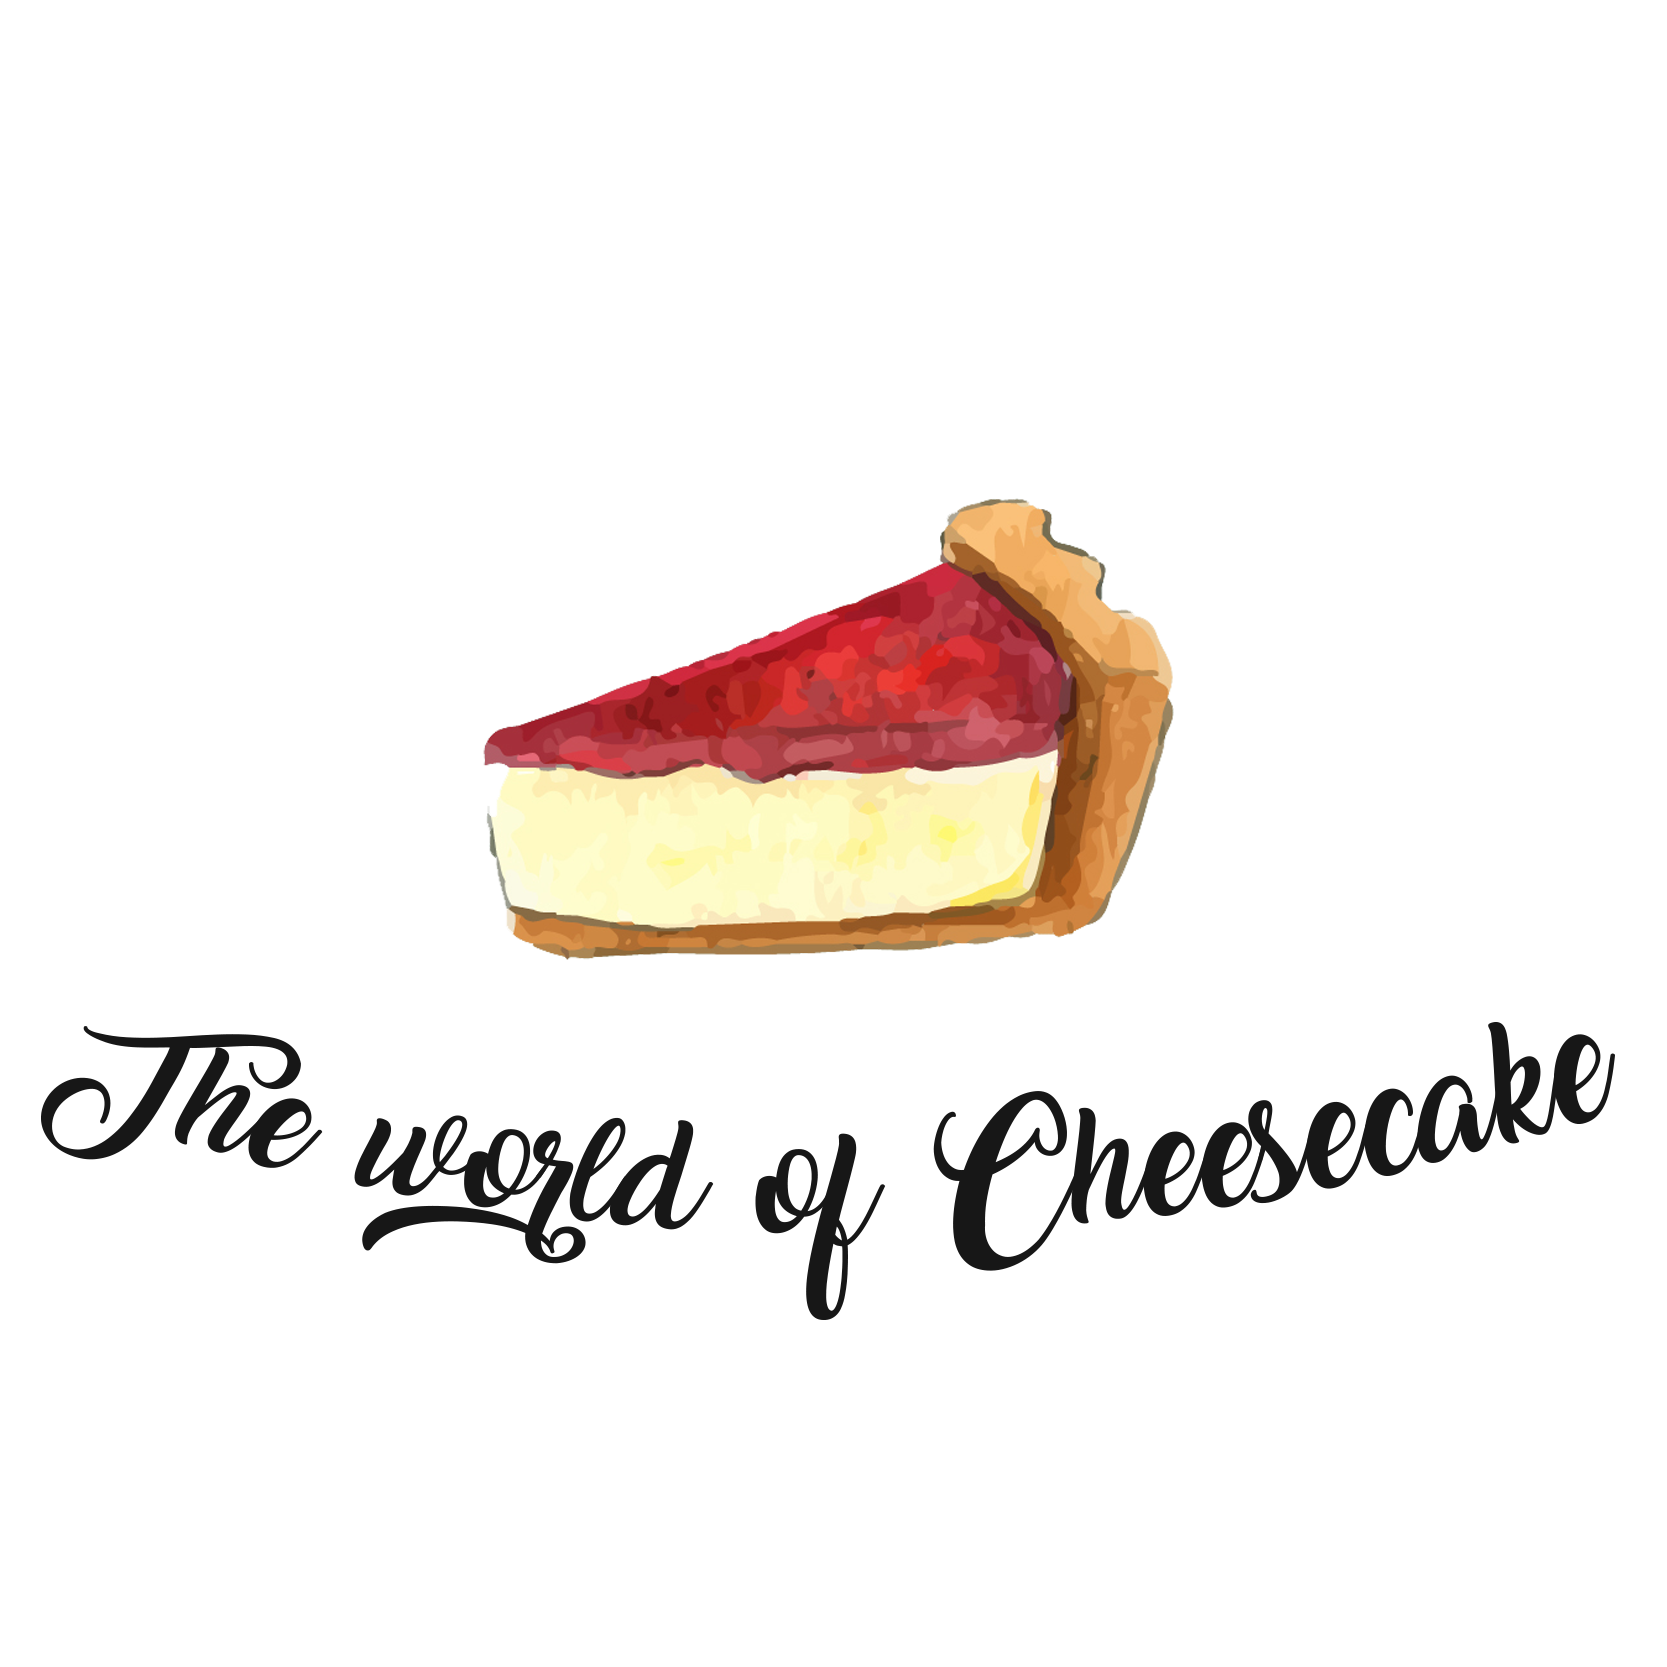
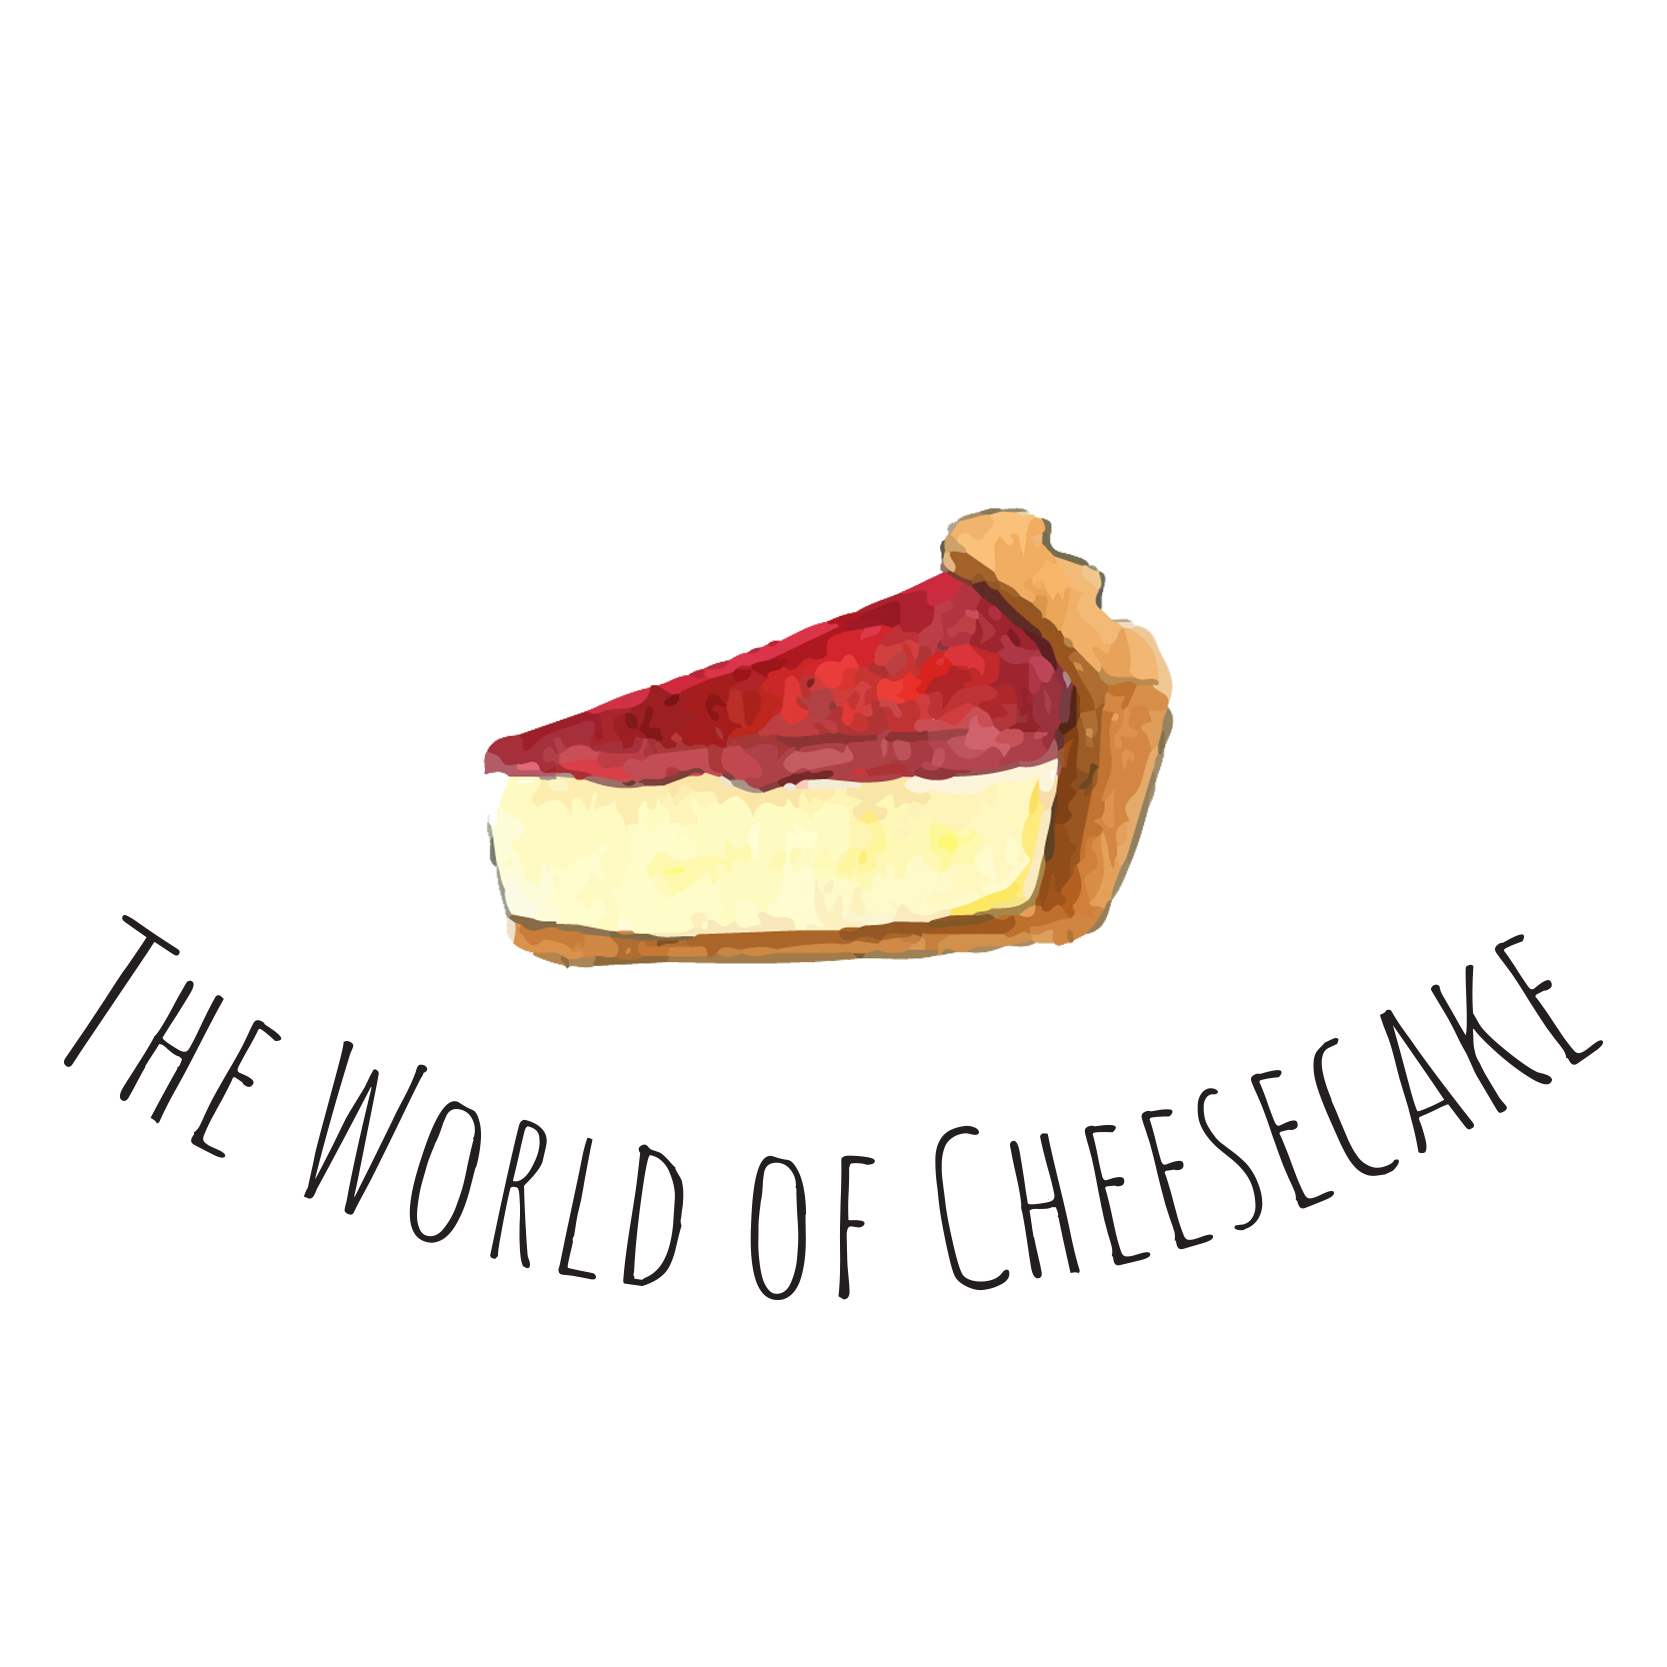
SEMANA 10
SEMANA 10

diff --git a/tarea/css/style.css b/tarea/css/style.css
@@ -1,5 +1,6 @@
 body{ 
   background-color:#f0f8ff;
+
 }
 
 header img{
@@ -12,13 +13,18 @@ header img{
  
 }
 
+ul {
+  list-style-type: none;
+
+}
+
 .row {
   display: flex;
 }
 
  p {
-  font-family:'Nanum Myeongjo', serif;
-  font-size: 1.95em;
+  font-family: 'Coming Soon', cursive;
+  font-size: 1.5em;
   flex: 1;
   border:1% solid none;
   text-align: justify;
@@ -27,6 +33,8 @@ header img{
   margin-right: 10%;
   margin-left: 20%;
   margin-top: 1%;
+
+  
 }
 
 .row div img {
@@ -43,8 +51,8 @@ h1{
 }
 
 h2{
-  font-family: 'amarillo', serif;
-  font-size: 2em;
+  font-family: 'Amatic SC', cursive;
+  font-size: 3em;
   text-align: center;
   margin-top: 8%;
   margin-left: 10%;
@@ -62,18 +70,10 @@ h2{
 }
 
 
-p{
-  font-family:'Nanum Myeongjo', serif;
-  font-size: 1.2em;
-  text-align: justify;
-  margin-top: 5%;
-
-}
-
 h3{
   text-align: center;
   margin-left: 10%;
-  font-family:'Nanum Myeongjo', sans-serif;
+  font-family: 'Coming Soon', cursive;
 }
 
 
@@ -83,7 +83,7 @@ a{
 }
 
 .topnav {
-  font-family: 'amarillo', serif;
+   font-family: 'Amatic SC', cursive;
     background-color: #939696;
     overflow: hidden;
     margin-left:1%;
@@ -95,13 +95,13 @@ a{
 }
 
 .topnav a {
-  font-family: 'amarillo', serif;
+   font-family: 'Amatic SC', cursive;
     float: left;
     color: #f2f2f2;
     text-align: center;
     padding: 2% 1%;
     text-decoration: none;
-    font-size: 1em;
+    font-size: 2.5em;
     margin-right: 16%;
 
 
@@ -133,7 +133,7 @@ input[type=text], select, textarea {
 }
 
 input[type=submit] {
-    background-color: #f2f2f2;;
+    background-color: #6495ed;
     color: white;
     padding: 12px 20px;
     border: none;
@@ -146,7 +146,7 @@ input[type=submit]:hover {
 
 /* Style the container/contact section */
 .container {
-  font-family:'Nanum Myeongjo', sans-serif;
+  font-family: 'Coming Soon', cursive;
     border-radius: 5px;
     background-color: #f0f8ff;
     padding: 10px;
@@ -174,4 +174,10 @@ input[type=submit]:hover {
         width: 100%;
         margin-top: 0;
     }
+}
+
+iframe{
+  margin-top: -90%;
+  margin-left: 5%;
+  margin-bottom: 5%;
 }

diff --git a/tarea/contact.html b/tarea/contact.html
@@ -1,9 +1,7 @@
 <!DOCTYPE html>
 <html lang="en">
 <head>
-  <style>
-@import url('https://fonts.googleapis.com/css?family=Nanum+Myeongjo|Playfair+Display');
-</style>
+ <link href="https://fonts.googleapis.com/css?family=Amatic+SC|Coming+Soon" rel="stylesheet">
 	<meta charset="utf-8" content="width=device-width, initial-scale=1">
 	<link rel="stylesheet" href="css/reset.css" type="text/css">
      <link rel="stylesheet" type="text/css" href="css/style.css">
@@ -14,10 +12,15 @@
 	<h1><img src="images/cake.png"></h1>
 </header>
 		<div class="topnav">
-  <a class="active" href="index.html">Home</a>
-  <a href="about.html">About</a>
-  <a href="recipes.html">Recipes</a>
-  <a href="contact.html">Contact</a>
+
+    <nav>
+        <ul>
+  <li><a class="active" href="index.html">Home</a></li>
+  <li><a href="about.html">About</a></li>
+  <li><a href="recipes.html">Recipes</a></li>
+  <li><a href="contact.html">Contact</a></li>
+</ul>
+</nav>
 </div>
 </header>
 
@@ -52,18 +55,7 @@
   </div>
 </div>
 
-<script>
-function myMap() {
-  var myCenter = new google.maps.LatLng(51.508742,-0.120850);
-  var mapCanvas = document.getElementById("map");
-  var mapOptions = {center: myCenter, zoom: 12};
-  var map = new google.maps.Map(mapCanvas, mapOptions);
-  var marker = new google.maps.Marker({position:myCenter});
-  marker.setMap(map);
-}
-</script>
-
-<script src="https://maps.googleapis.com/maps/api/js?key=AIzaSyBu-916DdpKAjTmJNIgngS6HL_kDIKU0aU&callback=myMap"></script>
+<iframe src="https://www.google.com/maps/embed?pb=!1m18!1m12!1m3!1d3761.9796415573255!2d-70.69856288493587!3d19.456444544959048!2m3!1f0!2f0!3f0!3m2!1i1024!2i768!4f13.1!3m3!1m2!1s0x8eb1cf5f7be8b03f%3A0xbe3e3516d23177c9!2sDella+Nonna+Coffee+%26+Pastry!5e0!3m2!1sen!2sdo!4v1524941567151" width="600" height="450" frameborder="0" style="border:0" allowfullscreen></iframe>
 <div class="img">
   <img src="images/ins.png"> 
   <img src="images/facebook.png"> 

diff --git a/tarea/index.html b/tarea/index.html
@@ -1,22 +1,24 @@
 <!DOCTYPE html>
 <html lang="en">
 <head>
-	<style>
-@import url('https://fonts.googleapis.com/css?family=Nanum+Myeongjo|Playfair+Display''https://www.dafont.com/es/amarillo.font');
-</style>
 	<meta charset="utf-8" content="width=device-width, initial-scale=1">
 	<link rel="stylesheet" href="css/reset.css" type="text/css">
      <link rel="stylesheet" type="text/css" href="css/style.css">
+     <link href="https://fonts.googleapis.com/css?family=Amatic+SC|Coming+Soon" rel="stylesheet">
 	<title>The world of Cheesecake</title>
 </head>
 <body>
 	<header>
 		<h1><img src="images/cake.png"></h1>
 		<div class="topnav">
-  <a class="active" href="index.html">Home</a>
-  <a href="about.html">About</a>
-  <a href="recipes.html">Recipes</a>
-  <a href="contact.html">Contact</a>
+			<nav>
+				<ul>
+  <li><a class="active" href="index.html">Home</a></li>
+  <li><a href="about.html">About</a></li>
+  <li><a href="recipes.html">Recipes</a></li>
+  <li><a href="contact.html">Contact</a></li>
+</ul>
+</nav>
 </div>
 </header>
 <div style="padding-right:500%">

diff --git a/tarea/about.html b/tarea/about.html
@@ -1,9 +1,7 @@
 <!DOCTYPE html>
 <html lang="en">
 <head>
-	<style>
-@import url('https://fonts.googleapis.com/css?family=Nanum+Myeongjo|Playfair+Display');
-</style>
+	<link href="https://fonts.googleapis.com/css?family=Amatic+SC|Coming+Soon" rel="stylesheet">
 	<meta charset="utf-8" content="width=device-width, initial-scale=1">
 	<link rel="stylesheet" href="css/reset.css" type="text/css">
      <link rel="stylesheet" type="text/css" href="css/style.css">
@@ -13,10 +11,14 @@
 	<header>
 		<h1><img src="images/cake.png"></h1>
 		<div class="topnav">
- <a class="active" href="index.html">Home</a>
-  <a href="about.html">About</a>
-  <a href="recipes.html">Recipes</a>
-  <a href="contact.html">Contact</a>
+			<nav>
+				<ul>
+  <li><a class="active" href="index.html">Home</a></li>
+  <li><a href="about.html">About</a></li>
+  <li><a href="recipes.html">Recipes</a></li>
+  <li><a href="contact.html">Contact</a></li>
+</ul>
+</nav>
 </div>
 </header>
 <div style="padding-right:500%">

diff --git a/tarea/recipes.html b/tarea/recipes.html
@@ -1,9 +1,7 @@
 <!DOCTYPE html>
 <html lang="en">
 <head>
-	<style>
-@import url('https://fonts.googleapis.com/css?family=Nanum+Myeongjo|Playfair+Display');
-</style>
+<link href="https://fonts.googleapis.com/css?family=Amatic+SC|Coming+Soon" rel="stylesheet">
 	<meta charset="utf-8" content="width=device-width, initial-scale=1">
 	<link rel="stylesheet" href="css/reset.css" type="text/css">
      <link rel="stylesheet" type="text/css" href="css/style.css">
@@ -13,10 +11,14 @@
 	<header>
 	<h1><img src="images/cake.png"></h1>
 		<div class="topnav">
-  <a class="active" href="index.html">Home</a>
-  <a href="about.html">About</a>
-  <a href="recipes.html">Recipes</a>
-  <a href="contact.html">Contact</a>
+			<nav>
+				<ul>
+  <li><a class="active" href="index.html">Home</a></li>
+  <li><a href="about.html">About</a></li>
+  <li><a href="recipes.html">Recipes</a></li>
+  <li><a href="contact.html">Contact</a></li>
+</ul>
+</nav>
 </div>
 </header>
 <div style="padding-right:500%">
